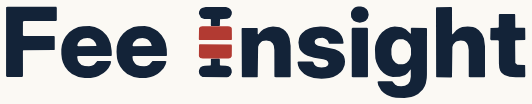
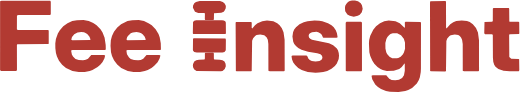
Emails: brick wordmark on transparent for the header, readable in Gmail dark mode
Claude-Session: https://claude.ai/code/session_019wVPgRcHdavbxv2EXRS1pa

diff --git a/Reports/studio/email-campaigns/out/library/02-pulse-feature-quiet-fees.html b/Reports/studio/email-campaigns/out/library/02-pulse-feature-quiet-fees.html
@@ -4,7 +4,7 @@
 <div style="display:none;max-height:0;overflow:hidden;mso-hide:all;font-size:1px;line-height:1px;color:#f3efe6;">Source for a future Fee Pulse feature. October's Pulse already uses the returned-deposit fee.&#8199;&#65279;&#847;&#8199;&#65279;&#847;&#8199;&#65279;&#847;&#8199;&#65279;&#847;&#8199;&#65279;&#847;</div>
 <table role="presentation" cellpadding="0" cellspacing="0" border="0" width="100%" style="background:#f3efe6;"><tr><td align="center" style="padding:24px 12px;">
 <table role="presentation" cellpadding="0" cellspacing="0" border="0" width="600" style="width:100%;max-width:600px;background:#fbf9f4;">
-<tr><td style="padding:22px 32px 16px;border-bottom:2px solid #132338;"><table role="presentation" cellpadding="0" cellspacing="0" border="0" width="100%"><tr><td style="white-space:nowrap;"><a href="https://feeinsight.com" style="text-decoration:none;"><img src="https://feeinsight.com/brand/png/fee-insight-oneline-email@2x.png" width="128" height="25" alt="Fee Insight" style="display:block;border:0;width:128px;height:25px;font-family:Geist,Inter,'Helvetica Neue',Helvetica,Arial,sans-serif;font-size:18px;color:#132338;"></a></td><td align="right" style="font-family:'Geist Mono','SFMono-Regular',Menlo,Consolas,monospace;font-size:10px;letter-spacing:1.5px;text-transform:uppercase;color:#55606f;">Bank Fee Index</td></tr></table></td></tr>
+<tr><td style="padding:22px 32px 16px;border-bottom:2px solid #132338;"><table role="presentation" cellpadding="0" cellspacing="0" border="0" width="100%"><tr><td style="white-space:nowrap;"><a href="https://feeinsight.com" style="text-decoration:none;"><img src="https://feeinsight.com/brand/png/fee-insight-oneline-email@2x.png" width="124" height="22" alt="Fee Insight" style="display:block;border:0;width:124px;height:22px;font-family:Geist,Inter,'Helvetica Neue',Helvetica,Arial,sans-serif;font-size:18px;color:#132338;"></a></td><td align="right" style="font-family:'Geist Mono','SFMono-Regular',Menlo,Consolas,monospace;font-size:10px;letter-spacing:1.5px;text-transform:uppercase;color:#55606f;">Bank Fee Index</td></tr></table></td></tr>
 <tr><td style="padding:30px 32px 10px;">
 <p style="margin:0 0 8px;font-family:'Geist Mono','SFMono-Regular',Menlo,Consolas,monospace;font-size:11px;letter-spacing:2px;text-transform:uppercase;color:#b23a32;">Pulse feature · draft</p>
 <h1 style="margin:0 0 14px;font-family:Geist,Inter,'Helvetica Neue',Helvetica,Arial,sans-serif;font-size:30px;line-height:1.18;font-weight:normal;color:#132338;text-wrap:balance;overflow-wrap:anywhere;">The fees nobody benchmarks (customers notice them anyway)</h1>

diff --git a/Reports/studio/email-campaigns/out/report/02-a-finding.html b/Reports/studio/email-campaigns/out/report/02-a-finding.html
@@ -4,7 +4,7 @@
 <div style="display:none;max-height:0;overflow:hidden;mso-hide:all;font-size:1px;line-height:1px;color:#f3efe6;">What the top of your report tells you, and what it leaves out.&#8199;&#65279;&#847;&#8199;&#65279;&#847;&#8199;&#65279;&#847;&#8199;&#65279;&#847;&#8199;&#65279;&#847;</div>
 <table role="presentation" cellpadding="0" cellspacing="0" border="0" width="100%" style="background:#f3efe6;"><tr><td align="center" style="padding:24px 12px;">
 <table role="presentation" cellpadding="0" cellspacing="0" border="0" width="600" style="width:100%;max-width:600px;background:#fbf9f4;">
-<tr><td style="padding:22px 32px 16px;border-bottom:2px solid #132338;"><table role="presentation" cellpadding="0" cellspacing="0" border="0" width="100%"><tr><td style="white-space:nowrap;"><a href="https://feeinsight.com" style="text-decoration:none;"><img src="https://feeinsight.com/brand/png/fee-insight-oneline-email@2x.png" width="128" height="25" alt="Fee Insight" style="display:block;border:0;width:128px;height:25px;font-family:Geist,Inter,'Helvetica Neue',Helvetica,Arial,sans-serif;font-size:18px;color:#132338;"></a></td><td align="right" style="font-family:'Geist Mono','SFMono-Regular',Menlo,Consolas,monospace;font-size:10px;letter-spacing:1.5px;text-transform:uppercase;color:#55606f;">Bank Fee Index · Reports</td></tr></table></td></tr>
+<tr><td style="padding:22px 32px 16px;border-bottom:2px solid #132338;"><table role="presentation" cellpadding="0" cellspacing="0" border="0" width="100%"><tr><td style="white-space:nowrap;"><a href="https://feeinsight.com" style="text-decoration:none;"><img src="https://feeinsight.com/brand/png/fee-insight-oneline-email@2x.png" width="124" height="22" alt="Fee Insight" style="display:block;border:0;width:124px;height:22px;font-family:Geist,Inter,'Helvetica Neue',Helvetica,Arial,sans-serif;font-size:18px;color:#132338;"></a></td><td align="right" style="font-family:'Geist Mono','SFMono-Regular',Menlo,Consolas,monospace;font-size:10px;letter-spacing:1.5px;text-transform:uppercase;color:#55606f;">Bank Fee Index · Reports</td></tr></table></td></tr>
 <tr><td style="padding:30px 32px 10px;">
 <p style="margin:0 0 8px;font-family:'Geist Mono','SFMono-Regular',Menlo,Consolas,monospace;font-size:11px;letter-spacing:2px;text-transform:uppercase;color:#b23a32;">Your report · 2 of 3</p>
 <h1 style="margin:0 0 14px;font-family:Geist,Inter,'Helvetica Neue',Helvetica,Arial,sans-serif;font-size:30px;line-height:1.18;font-weight:normal;color:#132338;text-wrap:balance;overflow-wrap:anywhere;">{$report_finding_title|default('How to read your fee report')}</h1>

diff --git a/Reports/studio/email-campaigns/out/library/04-kit-fee-review.html b/Reports/studio/email-campaigns/out/library/04-kit-fee-review.html
@@ -4,7 +4,7 @@
 <div style="display:none;max-height:0;overflow:hidden;mso-hide:all;font-size:1px;line-height:1px;color:#f3efe6;">Source for a downloadable kit: agenda plus a worksheet. Not offered until the files exist.&#8199;&#65279;&#847;&#8199;&#65279;&#847;&#8199;&#65279;&#847;&#8199;&#65279;&#847;&#8199;&#65279;&#847;</div>
 <table role="presentation" cellpadding="0" cellspacing="0" border="0" width="100%" style="background:#f3efe6;"><tr><td align="center" style="padding:24px 12px;">
 <table role="presentation" cellpadding="0" cellspacing="0" border="0" width="600" style="width:100%;max-width:600px;background:#fbf9f4;">
-<tr><td style="padding:22px 32px 16px;border-bottom:2px solid #132338;"><table role="presentation" cellpadding="0" cellspacing="0" border="0" width="100%"><tr><td style="white-space:nowrap;"><a href="https://feeinsight.com" style="text-decoration:none;"><img src="https://feeinsight.com/brand/png/fee-insight-oneline-email@2x.png" width="128" height="25" alt="Fee Insight" style="display:block;border:0;width:128px;height:25px;font-family:Geist,Inter,'Helvetica Neue',Helvetica,Arial,sans-serif;font-size:18px;color:#132338;"></a></td><td align="right" style="font-family:'Geist Mono','SFMono-Regular',Menlo,Consolas,monospace;font-size:10px;letter-spacing:1.5px;text-transform:uppercase;color:#55606f;">Bank Fee Index</td></tr></table></td></tr>
+<tr><td style="padding:22px 32px 16px;border-bottom:2px solid #132338;"><table role="presentation" cellpadding="0" cellspacing="0" border="0" width="100%"><tr><td style="white-space:nowrap;"><a href="https://feeinsight.com" style="text-decoration:none;"><img src="https://feeinsight.com/brand/png/fee-insight-oneline-email@2x.png" width="124" height="22" alt="Fee Insight" style="display:block;border:0;width:124px;height:22px;font-family:Geist,Inter,'Helvetica Neue',Helvetica,Arial,sans-serif;font-size:18px;color:#132338;"></a></td><td align="right" style="font-family:'Geist Mono','SFMono-Regular',Menlo,Consolas,monospace;font-size:10px;letter-spacing:1.5px;text-transform:uppercase;color:#55606f;">Bank Fee Index</td></tr></table></td></tr>
 <tr><td style="padding:30px 32px 10px;">
 <p style="margin:0 0 8px;font-family:'Geist Mono','SFMono-Regular',Menlo,Consolas,monospace;font-size:11px;letter-spacing:2px;text-transform:uppercase;color:#b23a32;">Downloadable kit · draft</p>
 <h1 style="margin:0 0 14px;font-family:Geist,Inter,'Helvetica Neue',Helvetica,Arial,sans-serif;font-size:30px;line-height:1.18;font-weight:normal;color:#132338;text-wrap:balance;overflow-wrap:anywhere;">Fee review kit for the pricing committee</h1>

diff --git a/Reports/studio/email-campaigns/out/library/01-topic-overdraft-nsf.html b/Reports/studio/email-campaigns/out/library/01-topic-overdraft-nsf.html
@@ -4,7 +4,7 @@
 <div style="display:none;max-height:0;overflow:hidden;mso-hide:all;font-size:1px;line-height:1px;color:#f3efe6;">Four rules that shape these fees, and the questions to ask about your own.&#8199;&#65279;&#847;&#8199;&#65279;&#847;&#8199;&#65279;&#847;&#8199;&#65279;&#847;&#8199;&#65279;&#847;</div>
 <table role="presentation" cellpadding="0" cellspacing="0" border="0" width="100%" style="background:#f3efe6;"><tr><td align="center" style="padding:24px 12px;">
 <table role="presentation" cellpadding="0" cellspacing="0" border="0" width="600" style="width:100%;max-width:600px;background:#fbf9f4;">
-<tr><td style="padding:22px 32px 16px;border-bottom:2px solid #132338;"><table role="presentation" cellpadding="0" cellspacing="0" border="0" width="100%"><tr><td style="white-space:nowrap;"><a href="https://feeinsight.com" style="text-decoration:none;"><img src="https://feeinsight.com/brand/png/fee-insight-oneline-email@2x.png" width="128" height="25" alt="Fee Insight" style="display:block;border:0;width:128px;height:25px;font-family:Geist,Inter,'Helvetica Neue',Helvetica,Arial,sans-serif;font-size:18px;color:#132338;"></a></td><td align="right" style="font-family:'Geist Mono','SFMono-Regular',Menlo,Consolas,monospace;font-size:10px;letter-spacing:1.5px;text-transform:uppercase;color:#55606f;">Bank Fee Index</td></tr></table></td></tr>
+<tr><td style="padding:22px 32px 16px;border-bottom:2px solid #132338;"><table role="presentation" cellpadding="0" cellspacing="0" border="0" width="100%"><tr><td style="white-space:nowrap;"><a href="https://feeinsight.com" style="text-decoration:none;"><img src="https://feeinsight.com/brand/png/fee-insight-oneline-email@2x.png" width="124" height="22" alt="Fee Insight" style="display:block;border:0;width:124px;height:22px;font-family:Geist,Inter,'Helvetica Neue',Helvetica,Arial,sans-serif;font-size:18px;color:#132338;"></a></td><td align="right" style="font-family:'Geist Mono','SFMono-Regular',Menlo,Consolas,monospace;font-size:10px;letter-spacing:1.5px;text-transform:uppercase;color:#55606f;">Bank Fee Index</td></tr></table></td></tr>
 <tr><td style="padding:30px 32px 10px;">
 <p style="margin:0 0 8px;font-family:'Geist Mono','SFMono-Regular',Menlo,Consolas,monospace;font-size:11px;letter-spacing:2px;text-transform:uppercase;color:#b23a32;">Topic · Overdraft and NSF</p>
 <h1 style="margin:0 0 14px;font-family:Geist,Inter,'Helvetica Neue',Helvetica,Arial,sans-serif;font-size:30px;line-height:1.18;font-weight:normal;color:#132338;text-wrap:balance;overflow-wrap:anywhere;">Overdraft and NSF: the rules, and where pricing sits</h1>

diff --git a/Reports/studio/email-campaigns/out/explorer/01-what-you-follow.html b/Reports/studio/email-campaigns/out/explorer/01-what-you-follow.html
@@ -4,7 +4,7 @@
 <div style="display:none;max-height:0;overflow:hidden;mso-hide:all;font-size:1px;line-height:1px;color:#f3efe6;">Your page, and the monthly snapshot you'll get.&#8199;&#65279;&#847;&#8199;&#65279;&#847;&#8199;&#65279;&#847;&#8199;&#65279;&#847;&#8199;&#65279;&#847;</div>
 <table role="presentation" cellpadding="0" cellspacing="0" border="0" width="100%" style="background:#f3efe6;"><tr><td align="center" style="padding:24px 12px;">
 <table role="presentation" cellpadding="0" cellspacing="0" border="0" width="600" style="width:100%;max-width:600px;background:#fbf9f4;">
-<tr><td style="padding:22px 32px 16px;border-bottom:2px solid #132338;"><table role="presentation" cellpadding="0" cellspacing="0" border="0" width="100%"><tr><td style="white-space:nowrap;"><a href="https://feeinsight.com" style="text-decoration:none;"><img src="https://feeinsight.com/brand/png/fee-insight-oneline-email@2x.png" width="128" height="25" alt="Fee Insight" style="display:block;border:0;width:128px;height:25px;font-family:Geist,Inter,'Helvetica Neue',Helvetica,Arial,sans-serif;font-size:18px;color:#132338;"></a></td><td align="right" style="font-family:'Geist Mono','SFMono-Regular',Menlo,Consolas,monospace;font-size:10px;letter-spacing:1.5px;text-transform:uppercase;color:#55606f;">Bank Fee Index · Following</td></tr></table></td></tr>
+<tr><td style="padding:22px 32px 16px;border-bottom:2px solid #132338;"><table role="presentation" cellpadding="0" cellspacing="0" border="0" width="100%"><tr><td style="white-space:nowrap;"><a href="https://feeinsight.com" style="text-decoration:none;"><img src="https://feeinsight.com/brand/png/fee-insight-oneline-email@2x.png" width="124" height="22" alt="Fee Insight" style="display:block;border:0;width:124px;height:22px;font-family:Geist,Inter,'Helvetica Neue',Helvetica,Arial,sans-serif;font-size:18px;color:#132338;"></a></td><td align="right" style="font-family:'Geist Mono','SFMono-Regular',Menlo,Consolas,monospace;font-size:10px;letter-spacing:1.5px;text-transform:uppercase;color:#55606f;">Bank Fee Index · Following</td></tr></table></td></tr>
 <tr><td style="padding:30px 32px 10px;">
 <p style="margin:0 0 8px;font-family:'Geist Mono','SFMono-Regular',Menlo,Consolas,monospace;font-size:11px;letter-spacing:2px;text-transform:uppercase;color:#b23a32;">Following</p>
 <h1 style="margin:0 0 14px;font-family:Geist,Inter,'Helvetica Neue',Helvetica,Arial,sans-serif;font-size:30px;line-height:1.18;font-weight:normal;color:#132338;text-wrap:balance;overflow-wrap:anywhere;">You're following {$follow_name|default('the market you follow')}</h1>

diff --git a/Reports/studio/email-campaigns/out/report/01-your-report.html b/Reports/studio/email-campaigns/out/report/01-your-report.html
@@ -4,7 +4,7 @@
 <div style="display:none;max-height:0;overflow:hidden;mso-hide:all;font-size:1px;line-height:1px;color:#f3efe6;">The live link, and the three sections to read first.&#8199;&#65279;&#847;&#8199;&#65279;&#847;&#8199;&#65279;&#847;&#8199;&#65279;&#847;&#8199;&#65279;&#847;</div>
 <table role="presentation" cellpadding="0" cellspacing="0" border="0" width="100%" style="background:#f3efe6;"><tr><td align="center" style="padding:24px 12px;">
 <table role="presentation" cellpadding="0" cellspacing="0" border="0" width="600" style="width:100%;max-width:600px;background:#fbf9f4;">
-<tr><td style="padding:22px 32px 16px;border-bottom:2px solid #132338;"><table role="presentation" cellpadding="0" cellspacing="0" border="0" width="100%"><tr><td style="white-space:nowrap;"><a href="https://feeinsight.com" style="text-decoration:none;"><img src="https://feeinsight.com/brand/png/fee-insight-oneline-email@2x.png" width="128" height="25" alt="Fee Insight" style="display:block;border:0;width:128px;height:25px;font-family:Geist,Inter,'Helvetica Neue',Helvetica,Arial,sans-serif;font-size:18px;color:#132338;"></a></td><td align="right" style="font-family:'Geist Mono','SFMono-Regular',Menlo,Consolas,monospace;font-size:10px;letter-spacing:1.5px;text-transform:uppercase;color:#55606f;">Bank Fee Index · Reports</td></tr></table></td></tr>
+<tr><td style="padding:22px 32px 16px;border-bottom:2px solid #132338;"><table role="presentation" cellpadding="0" cellspacing="0" border="0" width="100%"><tr><td style="white-space:nowrap;"><a href="https://feeinsight.com" style="text-decoration:none;"><img src="https://feeinsight.com/brand/png/fee-insight-oneline-email@2x.png" width="124" height="22" alt="Fee Insight" style="display:block;border:0;width:124px;height:22px;font-family:Geist,Inter,'Helvetica Neue',Helvetica,Arial,sans-serif;font-size:18px;color:#132338;"></a></td><td align="right" style="font-family:'Geist Mono','SFMono-Regular',Menlo,Consolas,monospace;font-size:10px;letter-spacing:1.5px;text-transform:uppercase;color:#55606f;">Bank Fee Index · Reports</td></tr></table></td></tr>
 <tr><td style="padding:30px 32px 10px;">
 <p style="margin:0 0 8px;font-family:'Geist Mono','SFMono-Regular',Menlo,Consolas,monospace;font-size:11px;letter-spacing:2px;text-transform:uppercase;color:#b23a32;">Your report · 1 of 3</p>
 <h1 style="margin:0 0 14px;font-family:Geist,Inter,'Helvetica Neue',Helvetica,Arial,sans-serif;font-size:30px;line-height:1.18;font-weight:normal;color:#132338;text-wrap:balance;overflow-wrap:anywhere;">Here is {$report_name|default('your fee report')}</h1>

diff --git a/Reports/studio/email-campaigns/out/report/03-your-institution.html b/Reports/studio/email-campaigns/out/report/03-your-institution.html
@@ -4,7 +4,7 @@
 <div style="display:none;max-height:0;overflow:hidden;mso-hide:all;font-size:1px;line-height:1px;color:#f3efe6;">The Competitive Fee Position Report, from $300.&#8199;&#65279;&#847;&#8199;&#65279;&#847;&#8199;&#65279;&#847;&#8199;&#65279;&#847;&#8199;&#65279;&#847;</div>
 <table role="presentation" cellpadding="0" cellspacing="0" border="0" width="100%" style="background:#f3efe6;"><tr><td align="center" style="padding:24px 12px;">
 <table role="presentation" cellpadding="0" cellspacing="0" border="0" width="600" style="width:100%;max-width:600px;background:#fbf9f4;">
-<tr><td style="padding:22px 32px 16px;border-bottom:2px solid #132338;"><table role="presentation" cellpadding="0" cellspacing="0" border="0" width="100%"><tr><td style="white-space:nowrap;"><a href="https://feeinsight.com" style="text-decoration:none;"><img src="https://feeinsight.com/brand/png/fee-insight-oneline-email@2x.png" width="128" height="25" alt="Fee Insight" style="display:block;border:0;width:128px;height:25px;font-family:Geist,Inter,'Helvetica Neue',Helvetica,Arial,sans-serif;font-size:18px;color:#132338;"></a></td><td align="right" style="font-family:'Geist Mono','SFMono-Regular',Menlo,Consolas,monospace;font-size:10px;letter-spacing:1.5px;text-transform:uppercase;color:#55606f;">Bank Fee Index · Reports</td></tr></table></td></tr>
+<tr><td style="padding:22px 32px 16px;border-bottom:2px solid #132338;"><table role="presentation" cellpadding="0" cellspacing="0" border="0" width="100%"><tr><td style="white-space:nowrap;"><a href="https://feeinsight.com" style="text-decoration:none;"><img src="https://feeinsight.com/brand/png/fee-insight-oneline-email@2x.png" width="124" height="22" alt="Fee Insight" style="display:block;border:0;width:124px;height:22px;font-family:Geist,Inter,'Helvetica Neue',Helvetica,Arial,sans-serif;font-size:18px;color:#132338;"></a></td><td align="right" style="font-family:'Geist Mono','SFMono-Regular',Menlo,Consolas,monospace;font-size:10px;letter-spacing:1.5px;text-transform:uppercase;color:#55606f;">Bank Fee Index · Reports</td></tr></table></td></tr>
 <tr><td style="padding:30px 32px 10px;">
 <p style="margin:0 0 8px;font-family:'Geist Mono','SFMono-Regular',Menlo,Consolas,monospace;font-size:11px;letter-spacing:2px;text-transform:uppercase;color:#b23a32;">Your report · 3 of 3</p>
 <h1 style="margin:0 0 14px;font-family:Geist,Inter,'Helvetica Neue',Helvetica,Arial,sans-serif;font-size:30px;line-height:1.18;font-weight:normal;color:#132338;text-wrap:balance;overflow-wrap:anywhere;">Your institution against the competitors you name</h1>

diff --git a/Reports/studio/email-campaigns/out/welcome/02-one-comparison.html b/Reports/studio/email-campaigns/out/welcome/02-one-comparison.html
@@ -4,7 +4,7 @@
 <div style="display:none;max-height:0;overflow:hidden;mso-hide:all;font-size:1px;line-height:1px;color:#f3efe6;">Your fee, your state's middle 50%, and the institutions behind it.&#8199;&#65279;&#847;&#8199;&#65279;&#847;&#8199;&#65279;&#847;&#8199;&#65279;&#847;&#8199;&#65279;&#847;</div>
 <table role="presentation" cellpadding="0" cellspacing="0" border="0" width="100%" style="background:#f3efe6;"><tr><td align="center" style="padding:24px 12px;">
 <table role="presentation" cellpadding="0" cellspacing="0" border="0" width="600" style="width:100%;max-width:600px;background:#fbf9f4;">
-<tr><td style="padding:22px 32px 16px;border-bottom:2px solid #132338;"><table role="presentation" cellpadding="0" cellspacing="0" border="0" width="100%"><tr><td style="white-space:nowrap;"><a href="https://feeinsight.com" style="text-decoration:none;"><img src="https://feeinsight.com/brand/png/fee-insight-oneline-email@2x.png" width="128" height="25" alt="Fee Insight" style="display:block;border:0;width:128px;height:25px;font-family:Geist,Inter,'Helvetica Neue',Helvetica,Arial,sans-serif;font-size:18px;color:#132338;"></a></td><td align="right" style="font-family:'Geist Mono','SFMono-Regular',Menlo,Consolas,monospace;font-size:10px;letter-spacing:1.5px;text-transform:uppercase;color:#55606f;">Bank Fee Index</td></tr></table></td></tr>
+<tr><td style="padding:22px 32px 16px;border-bottom:2px solid #132338;"><table role="presentation" cellpadding="0" cellspacing="0" border="0" width="100%"><tr><td style="white-space:nowrap;"><a href="https://feeinsight.com" style="text-decoration:none;"><img src="https://feeinsight.com/brand/png/fee-insight-oneline-email@2x.png" width="124" height="22" alt="Fee Insight" style="display:block;border:0;width:124px;height:22px;font-family:Geist,Inter,'Helvetica Neue',Helvetica,Arial,sans-serif;font-size:18px;color:#132338;"></a></td><td align="right" style="font-family:'Geist Mono','SFMono-Regular',Menlo,Consolas,monospace;font-size:10px;letter-spacing:1.5px;text-transform:uppercase;color:#55606f;">Bank Fee Index</td></tr></table></td></tr>
 <tr><td style="padding:30px 32px 10px;">
 <p style="margin:0 0 8px;font-family:'Geist Mono','SFMono-Regular',Menlo,Consolas,monospace;font-size:11px;letter-spacing:2px;text-transform:uppercase;color:#b23a32;">Welcome · 2 of 3</p>
 <h1 style="margin:0 0 14px;font-family:Geist,Inter,'Helvetica Neue',Helvetica,Arial,sans-serif;font-size:30px;line-height:1.18;font-weight:normal;color:#132338;text-wrap:balance;overflow-wrap:anywhere;">One comparison to make before your next pricing meeting</h1>

diff --git a/Reports/studio/email-campaigns/out/pulse/01-fee-pulse.html b/Reports/studio/email-campaigns/out/pulse/01-fee-pulse.html
@@ -4,7 +4,7 @@
 <div style="display:none;max-height:0;overflow:hidden;mso-hide:all;font-size:1px;line-height:1px;color:#f3efe6;">The middle half spans $16, compared with $8 for overdraft.&#8199;&#65279;&#847;&#8199;&#65279;&#847;&#8199;&#65279;&#847;&#8199;&#65279;&#847;&#8199;&#65279;&#847;</div>
 <table role="presentation" cellpadding="0" cellspacing="0" border="0" width="100%" style="background:#f3efe6;"><tr><td align="center" style="padding:24px 12px;">
 <table role="presentation" cellpadding="0" cellspacing="0" border="0" width="600" style="width:100%;max-width:600px;background:#fbf9f4;">
-<tr><td style="padding:22px 32px 16px;border-bottom:2px solid #132338;"><table role="presentation" cellpadding="0" cellspacing="0" border="0" width="100%"><tr><td style="white-space:nowrap;"><a href="https://feeinsight.com" style="text-decoration:none;"><img src="https://feeinsight.com/brand/png/fee-insight-oneline-email@2x.png" width="128" height="25" alt="Fee Insight" style="display:block;border:0;width:128px;height:25px;font-family:Geist,Inter,'Helvetica Neue',Helvetica,Arial,sans-serif;font-size:18px;color:#132338;"></a></td><td align="right" style="font-family:'Geist Mono','SFMono-Regular',Menlo,Consolas,monospace;font-size:10px;letter-spacing:1.5px;text-transform:uppercase;color:#55606f;">Bank Fee Index</td></tr></table></td></tr>
+<tr><td style="padding:22px 32px 16px;border-bottom:2px solid #132338;"><table role="presentation" cellpadding="0" cellspacing="0" border="0" width="100%"><tr><td style="white-space:nowrap;"><a href="https://feeinsight.com" style="text-decoration:none;"><img src="https://feeinsight.com/brand/png/fee-insight-oneline-email@2x.png" width="124" height="22" alt="Fee Insight" style="display:block;border:0;width:124px;height:22px;font-family:Geist,Inter,'Helvetica Neue',Helvetica,Arial,sans-serif;font-size:18px;color:#132338;"></a></td><td align="right" style="font-family:'Geist Mono','SFMono-Regular',Menlo,Consolas,monospace;font-size:10px;letter-spacing:1.5px;text-transform:uppercase;color:#55606f;">Bank Fee Index</td></tr></table></td></tr>
 <tr><td style="padding:30px 32px 10px;">
 <p style="margin:0 0 8px;font-family:'Geist Mono','SFMono-Regular',Menlo,Consolas,monospace;font-size:11px;letter-spacing:2px;text-transform:uppercase;color:#b23a32;">Fee Pulse · October 2026</p>
 <h1 style="margin:0 0 14px;font-family:Geist,Inter,'Helvetica Neue',Helvetica,Arial,sans-serif;font-size:30px;line-height:1.18;font-weight:normal;color:#132338;text-wrap:balance;overflow-wrap:anywhere;">Returned-deposit fees: the middle half spans $16</h1>

diff --git a/Reports/studio/email-campaigns/out/library/03-guide-benchmark-method.html b/Reports/studio/email-campaigns/out/library/03-guide-benchmark-method.html
@@ -4,7 +4,7 @@
 <div style="display:none;max-height:0;overflow:hidden;mso-hide:all;font-size:1px;line-height:1px;color:#f3efe6;">Source for a practical guide page. The time claim is dropped until someone times it.&#8199;&#65279;&#847;&#8199;&#65279;&#847;&#8199;&#65279;&#847;&#8199;&#65279;&#847;&#8199;&#65279;&#847;</div>
 <table role="presentation" cellpadding="0" cellspacing="0" border="0" width="100%" style="background:#f3efe6;"><tr><td align="center" style="padding:24px 12px;">
 <table role="presentation" cellpadding="0" cellspacing="0" border="0" width="600" style="width:100%;max-width:600px;background:#fbf9f4;">
-<tr><td style="padding:22px 32px 16px;border-bottom:2px solid #132338;"><table role="presentation" cellpadding="0" cellspacing="0" border="0" width="100%"><tr><td style="white-space:nowrap;"><a href="https://feeinsight.com" style="text-decoration:none;"><img src="https://feeinsight.com/brand/png/fee-insight-oneline-email@2x.png" width="128" height="25" alt="Fee Insight" style="display:block;border:0;width:128px;height:25px;font-family:Geist,Inter,'Helvetica Neue',Helvetica,Arial,sans-serif;font-size:18px;color:#132338;"></a></td><td align="right" style="font-family:'Geist Mono','SFMono-Regular',Menlo,Consolas,monospace;font-size:10px;letter-spacing:1.5px;text-transform:uppercase;color:#55606f;">Bank Fee Index</td></tr></table></td></tr>
+<tr><td style="padding:22px 32px 16px;border-bottom:2px solid #132338;"><table role="presentation" cellpadding="0" cellspacing="0" border="0" width="100%"><tr><td style="white-space:nowrap;"><a href="https://feeinsight.com" style="text-decoration:none;"><img src="https://feeinsight.com/brand/png/fee-insight-oneline-email@2x.png" width="124" height="22" alt="Fee Insight" style="display:block;border:0;width:124px;height:22px;font-family:Geist,Inter,'Helvetica Neue',Helvetica,Arial,sans-serif;font-size:18px;color:#132338;"></a></td><td align="right" style="font-family:'Geist Mono','SFMono-Regular',Menlo,Consolas,monospace;font-size:10px;letter-spacing:1.5px;text-transform:uppercase;color:#55606f;">Bank Fee Index</td></tr></table></td></tr>
 <tr><td style="padding:30px 32px 10px;">
 <p style="margin:0 0 8px;font-family:'Geist Mono','SFMono-Regular',Menlo,Consolas,monospace;font-size:11px;letter-spacing:2px;text-transform:uppercase;color:#b23a32;">Guide · draft</p>
 <h1 style="margin:0 0 14px;font-family:Geist,Inter,'Helvetica Neue',Helvetica,Arial,sans-serif;font-size:30px;line-height:1.18;font-weight:normal;color:#132338;text-wrap:balance;overflow-wrap:anywhere;">How to benchmark a fee schedule</h1>

diff --git a/Reports/studio/email-campaigns/out/welcome/01-find-the-data.html b/Reports/studio/email-campaigns/out/welcome/01-find-the-data.html
@@ -4,7 +4,7 @@
 <div style="display:none;max-height:0;overflow:hidden;mso-hide:all;font-size:1px;line-height:1px;color:#f3efe6;">Free benchmarks for your state, district, an institution or a fee.&#8199;&#65279;&#847;&#8199;&#65279;&#847;&#8199;&#65279;&#847;&#8199;&#65279;&#847;&#8199;&#65279;&#847;</div>
 <table role="presentation" cellpadding="0" cellspacing="0" border="0" width="100%" style="background:#f3efe6;"><tr><td align="center" style="padding:24px 12px;">
 <table role="presentation" cellpadding="0" cellspacing="0" border="0" width="600" style="width:100%;max-width:600px;background:#fbf9f4;">
-<tr><td style="padding:22px 32px 16px;border-bottom:2px solid #132338;"><table role="presentation" cellpadding="0" cellspacing="0" border="0" width="100%"><tr><td style="white-space:nowrap;"><a href="https://feeinsight.com" style="text-decoration:none;"><img src="https://feeinsight.com/brand/png/fee-insight-oneline-email@2x.png" width="128" height="25" alt="Fee Insight" style="display:block;border:0;width:128px;height:25px;font-family:Geist,Inter,'Helvetica Neue',Helvetica,Arial,sans-serif;font-size:18px;color:#132338;"></a></td><td align="right" style="font-family:'Geist Mono','SFMono-Regular',Menlo,Consolas,monospace;font-size:10px;letter-spacing:1.5px;text-transform:uppercase;color:#55606f;">Bank Fee Index</td></tr></table></td></tr>
+<tr><td style="padding:22px 32px 16px;border-bottom:2px solid #132338;"><table role="presentation" cellpadding="0" cellspacing="0" border="0" width="100%"><tr><td style="white-space:nowrap;"><a href="https://feeinsight.com" style="text-decoration:none;"><img src="https://feeinsight.com/brand/png/fee-insight-oneline-email@2x.png" width="124" height="22" alt="Fee Insight" style="display:block;border:0;width:124px;height:22px;font-family:Geist,Inter,'Helvetica Neue',Helvetica,Arial,sans-serif;font-size:18px;color:#132338;"></a></td><td align="right" style="font-family:'Geist Mono','SFMono-Regular',Menlo,Consolas,monospace;font-size:10px;letter-spacing:1.5px;text-transform:uppercase;color:#55606f;">Bank Fee Index</td></tr></table></td></tr>
 <tr><td style="padding:30px 32px 10px;">
 <p style="margin:0 0 8px;font-family:'Geist Mono','SFMono-Regular',Menlo,Consolas,monospace;font-size:11px;letter-spacing:2px;text-transform:uppercase;color:#b23a32;">Welcome · 1 of 3</p>
 <h1 style="margin:0 0 14px;font-family:Geist,Inter,'Helvetica Neue',Helvetica,Arial,sans-serif;font-size:30px;line-height:1.18;font-weight:normal;color:#132338;text-wrap:balance;overflow-wrap:anywhere;">Where to find the fee data for your market</h1>

diff --git a/Reports/studio/email-campaigns/out/pro/02-choose-peers.html b/Reports/studio/email-campaigns/out/pro/02-choose-peers.html
@@ -4,7 +4,7 @@
 <div style="display:none;max-height:0;overflow:hidden;mso-hide:all;font-size:1px;line-height:1px;color:#f3efe6;">The peer set decides every comparison you'll show your committee.&#8199;&#65279;&#847;&#8199;&#65279;&#847;&#8199;&#65279;&#847;&#8199;&#65279;&#847;&#8199;&#65279;&#847;</div>
 <table role="presentation" cellpadding="0" cellspacing="0" border="0" width="100%" style="background:#f3efe6;"><tr><td align="center" style="padding:24px 12px;">
 <table role="presentation" cellpadding="0" cellspacing="0" border="0" width="600" style="width:100%;max-width:600px;background:#fbf9f4;">
-<tr><td style="padding:22px 32px 16px;border-bottom:2px solid #132338;"><table role="presentation" cellpadding="0" cellspacing="0" border="0" width="100%"><tr><td style="white-space:nowrap;"><a href="https://feeinsight.com" style="text-decoration:none;"><img src="https://feeinsight.com/brand/png/fee-insight-oneline-email@2x.png" width="128" height="25" alt="Fee Insight" style="display:block;border:0;width:128px;height:25px;font-family:Geist,Inter,'Helvetica Neue',Helvetica,Arial,sans-serif;font-size:18px;color:#132338;"></a></td><td align="right" style="font-family:'Geist Mono','SFMono-Regular',Menlo,Consolas,monospace;font-size:10px;letter-spacing:1.5px;text-transform:uppercase;color:#55606f;">Hamilton</td></tr></table></td></tr>
+<tr><td style="padding:22px 32px 16px;border-bottom:2px solid #132338;"><table role="presentation" cellpadding="0" cellspacing="0" border="0" width="100%"><tr><td style="white-space:nowrap;"><a href="https://feeinsight.com" style="text-decoration:none;"><img src="https://feeinsight.com/brand/png/fee-insight-oneline-email@2x.png" width="124" height="22" alt="Fee Insight" style="display:block;border:0;width:124px;height:22px;font-family:Geist,Inter,'Helvetica Neue',Helvetica,Arial,sans-serif;font-size:18px;color:#132338;"></a></td><td align="right" style="font-family:'Geist Mono','SFMono-Regular',Menlo,Consolas,monospace;font-size:10px;letter-spacing:1.5px;text-transform:uppercase;color:#55606f;">Hamilton</td></tr></table></td></tr>
 <tr><td style="padding:30px 32px 10px;">
 <p style="margin:0 0 8px;font-family:'Geist Mono','SFMono-Regular',Menlo,Consolas,monospace;font-size:11px;letter-spacing:2px;text-transform:uppercase;color:#b23a32;">Setup · 2 of 5</p>
 <h1 style="margin:0 0 14px;font-family:Geist,Inter,'Helvetica Neue',Helvetica,Arial,sans-serif;font-size:30px;line-height:1.18;font-weight:normal;color:#132338;text-wrap:balance;overflow-wrap:anywhere;">Choose the peers you're measured against</h1>
